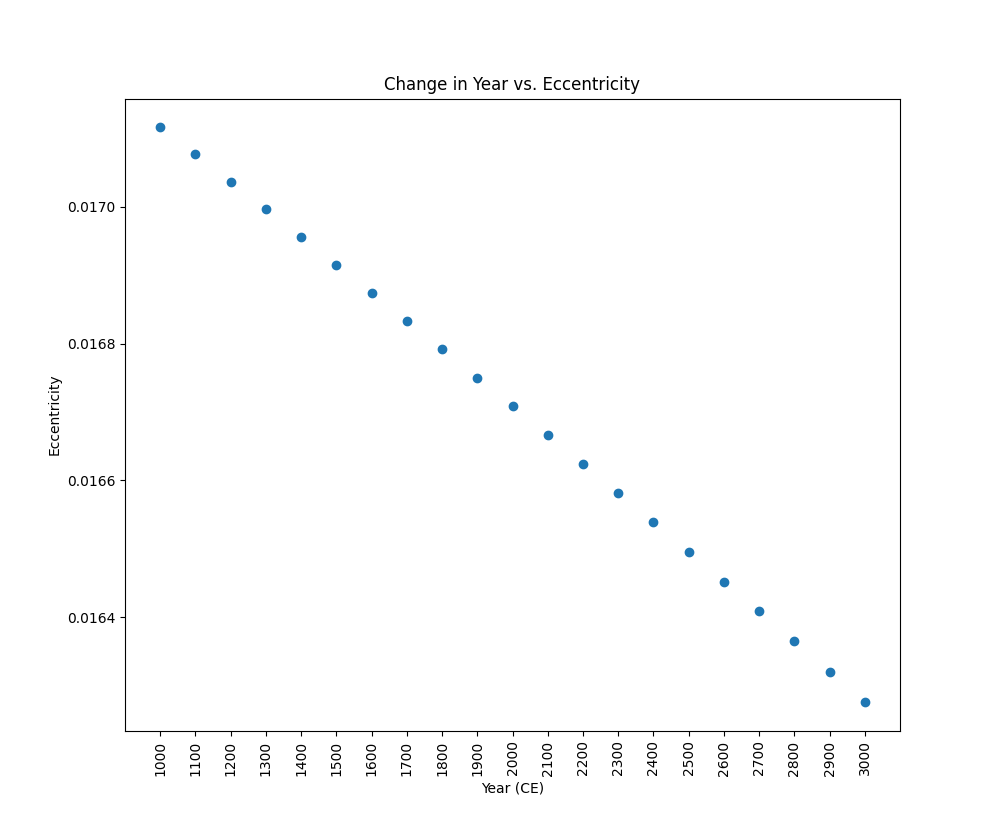
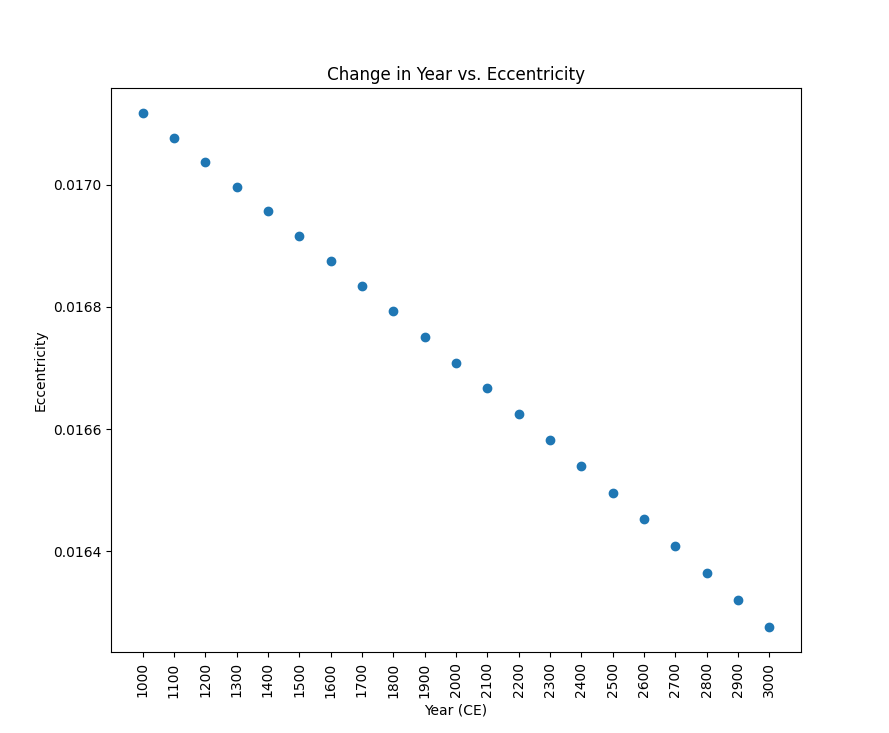
update calendar for 2025

diff --git a/page_21_astrolabe/calculate_eccentric_calendar_offset.py b/page_21_astrolabe/calculate_eccentric_calendar_offset.py
@@ -7,14 +7,14 @@ import configparser
 import logging
 import matplotlib.pyplot as plt
 
-yearToCalculate = 2024 # Year (YYYY) in CE
+yearToCalculate = 2025 # Year (YYYY) in CE
 
 def determineApside(julian_time):
 	# Define the line of apsides (longitude of aphelion and perihelion)
 	apside_perihelion = 102.937348 + (1.7195269 * julian_time) + (0.00045962 * (julian_time**2)) + (0.000000499 * (julian_time**3))
 	apside_aphelion = apside_perihelion + 180
 	logger.info(f"Perihelion = {apside_perihelion:3f}°")
-	logger.info("Aphelion   = {apside_aphelion:3f}°")
+	logger.info(f"Aphelion   = {apside_aphelion:3f}°")
 	return apside_perihelion, apside_aphelion
 
 def determineEccentrictiyOverTime(julian_time):

diff --git a/README.md b/README.md
@@ -118,16 +118,16 @@ Variables:
 3. Radius of the back plate
 
 ```
-For the Year 2024 at longitude -105.2705° for a plate with a radius of 1.0
+For the Year 2025 at longitude -105.2705° for a plate with a radius of 1.0
 
-Perihelion = 103.350061°
-Aphelion   = 283.350061°
-Mean Anomaly of Jan 0 = 357.301163°
-Line of Apside relative to Vernal Equinox for Longitude -105.2705° = -79.63718837823262°
+Perihelion = 103.367258°
+Aphelion   = 283.367258°
+Mean Anomaly of Jan 0 = 357.291665°
+Line of Apside relative to Vernal Equinox for Longitude -105.2705° = -79.62948862096914°
 
-Offset due to Eccentricity with radius of 1.0 = 0.033397
-X offset with radius of 1.0 = -0.007711
-Y offset with radius of 1.0 = 0.032495
+Offset due to Eccentricity with radius of 1.0 = 0.033396
+X offset with radius of 1.0 = -0.007721
+Y offset with radius of 1.0 = 0.032491
 ```
 _How Changing the Year Changes Eccentricity_
 ![change_in_year_eccentricity+png](https://github.com/cyschneck/History-Survival-Guide/blob/master/page_21_astrolabe/calculate_eccentric_calendar_offset_outputs/eccentric_calendar_change_in_year_versus_eccentricity.png)
